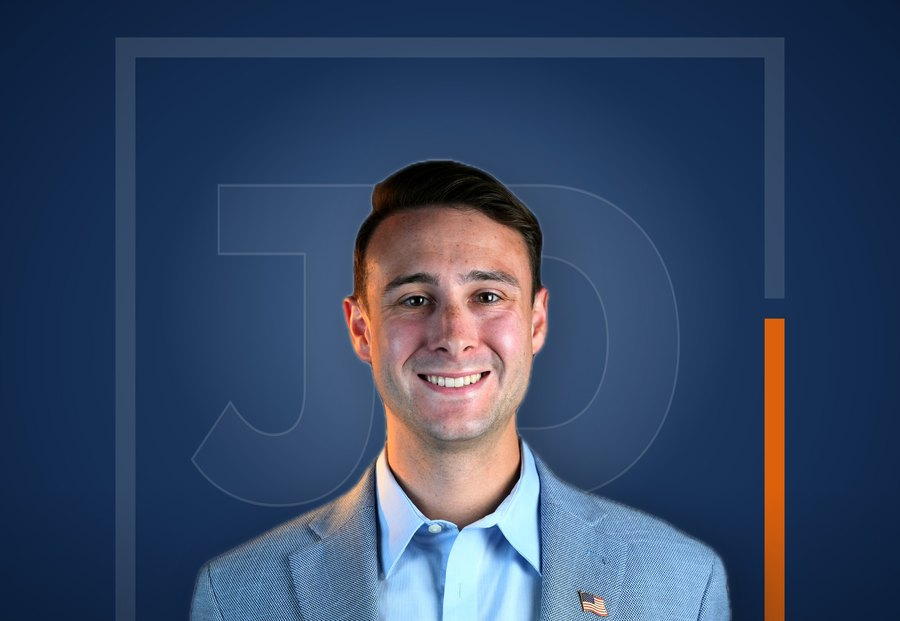
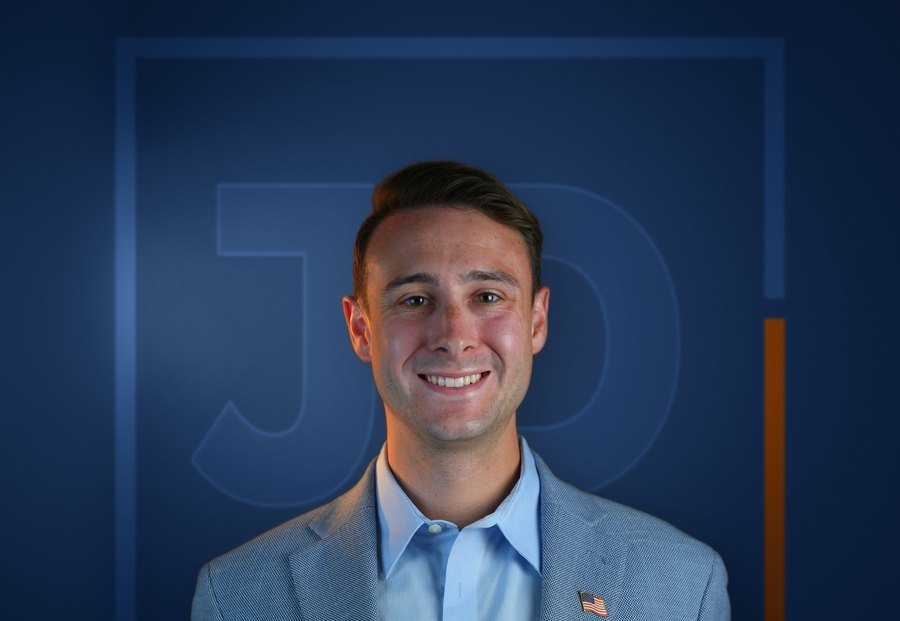
Round 31c: hero rebuilt from the real studio frame, navy wall with the JD mark painted in

diff --git a/index.html b/index.html
@@ -19,8 +19,8 @@
 <link rel="preconnect" href="https://fonts.googleapis.com">
 <link rel="preconnect" href="https://fonts.gstatic.com" crossorigin>
 <link href="https://fonts.googleapis.com/css2?family=Playfair+Display:ital,wght@0,400..900;1,400..900&family=Inter:opsz,wght@14..32,400..700&family=Montserrat:wght@400;800&display=swap" rel="stylesheet">
-<link rel="preload" as="image" href="assets/josh/hero.jpg?v=20261103c" imagesrcset="assets/josh/hero@900.jpg?v=20261103c 900w, assets/josh/hero@1600.jpg?v=20261103c 1600w, assets/josh/hero.jpg?v=20261103c 3200w" imagesizes="50vw" media="(min-width:901px)" fetchpriority="high">
-<link rel="preload" as="image" href="assets/josh/hero-m.jpg?v=20261103c" imagesrcset="assets/josh/hero-m@900.jpg?v=20261103c 900w, assets/josh/hero-m.jpg?v=20261103c 1800w" imagesizes="100vw" media="(max-width:900px)" fetchpriority="high">
+<link rel="preload" as="image" href="assets/josh/hero.jpg?v=20261103d" imagesrcset="assets/josh/hero@900.jpg?v=20261103d 900w, assets/josh/hero@1600.jpg?v=20261103d 1600w, assets/josh/hero.jpg?v=20261103d 3200w" imagesizes="50vw" media="(min-width:901px)" fetchpriority="high">
+<link rel="preload" as="image" href="assets/josh/hero-m.jpg?v=20261103d" imagesrcset="assets/josh/hero-m@900.jpg?v=20261103d 900w, assets/josh/hero-m.jpg?v=20261103d 1800w" imagesizes="100vw" media="(max-width:900px)" fetchpriority="high">
 <link rel="stylesheet" href="assets/site.css">
 </head>
 <body>
@@ -74,8 +74,8 @@
       </div>
     </div>
     <figure class="hero-photo">
-      <picture><source media="(max-width:900px)" srcset="assets/josh/hero-m@900.jpg?v=20261103c 900w, assets/josh/hero-m.jpg?v=20261103c 1800w" sizes="100vw">
-      <img src="assets/josh/hero.jpg?v=20261103c" srcset="assets/josh/hero@900.jpg?v=20261103c 900w, assets/josh/hero@1600.jpg?v=20261103c 1600w, assets/josh/hero.jpg?v=20261103c 3200w" sizes="(max-width:900px) 100vw, 50vw" width="3200" height="2400" alt="Josh DuBois, founder of JD Strategic Franchising" fetchpriority="high" decoding="async"></picture>
+      <picture><source media="(max-width:900px)" srcset="assets/josh/hero-m@900.jpg?v=20261103d 900w, assets/josh/hero-m.jpg?v=20261103d 1800w" sizes="100vw">
+      <img src="assets/josh/hero.jpg?v=20261103d" srcset="assets/josh/hero@900.jpg?v=20261103d 900w, assets/josh/hero@1600.jpg?v=20261103d 1600w, assets/josh/hero.jpg?v=20261103d 3200w" sizes="(max-width:900px) 100vw, 50vw" width="3200" height="2400" alt="Josh DuBois, founder of JD Strategic Franchising" fetchpriority="high" decoding="async"></picture>
       <figcaption class="hero-quote hv" style="--i:9"><p>I&rsquo;ve lived every side of it, the good deals and the bad ones, to help you manage the realities of ownership with clarity and confidence, without the costly mistakes.</p><cite>Josh DuBois, Founder</cite></figcaption>
     </figure>
   </div>

diff --git a/NOTES.md b/NOTES.md
@@ -1779,3 +1779,12 @@ not it… studio finish, nice gradient background, maybe abstract with the logo 
   feather 2.2, offset shadow, rim glow at 7% only, more reads as a sticker).
 - Quote card capped at `min(300px, 50% - 72px)` on desktop so it never crosses his centre line.
 - Swept 12 viewports (2560 to 360) with `jd-strategic-tools/herosweep.mjs` and a centre line drawn on each.
+
+### Round 31c (same day): "make it feel like he's in the studio, more real life"
+Javier: right direction, but it felt like a background placed behind him. Cause: "DSC01609 - Grey background.jpg" is itself
+a cut-out edit (hard hair edge), and the backdrop was a flat CSS graphic. Rebuilt from the REAL studio frame DSC01609.JPG
+(dark seamless, warm background light): kept its real backdrop and hair edges, filled behind him by normalized convolution,
+extended the wall to 3200 wide, luma-mapped the wall to the navy ramp (ink-deep -> ink -> lit slate), added a background
+light behind his shoulders, and painted the JD mark INTO the wall (multiplied by the same light, 4px out of focus, orange
+bracket lit by the same falloff). His warm rim light from the original shoot survives on his cheek. Subject: shadows lifted
+(gamma 0.78), vibrance +10%. Script: scratch `real.py` (numpy only; no cv2/scipy on this Mac). Swept 12 viewports.
